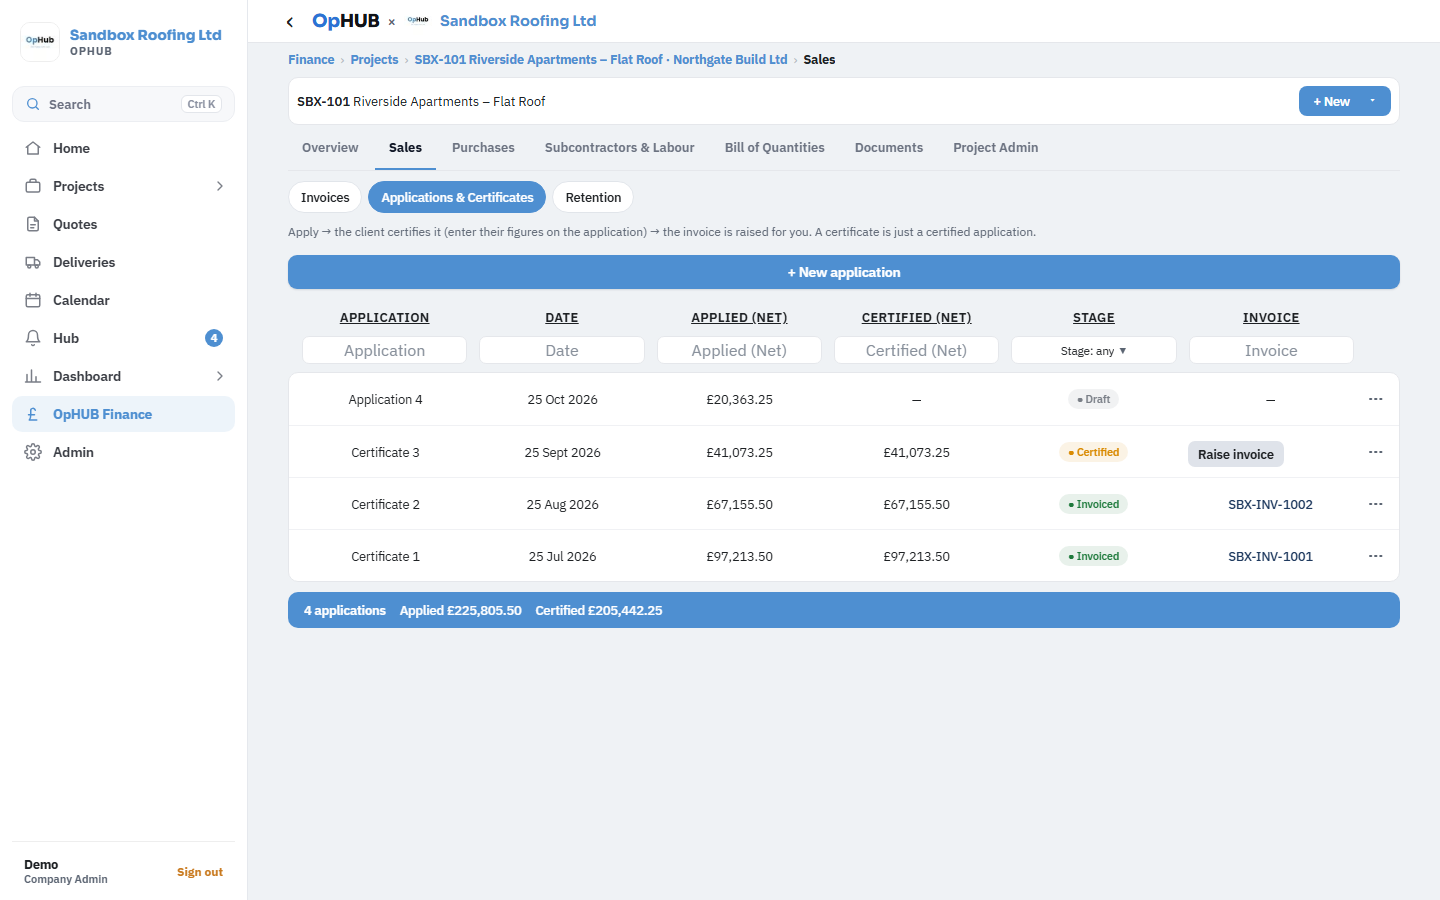
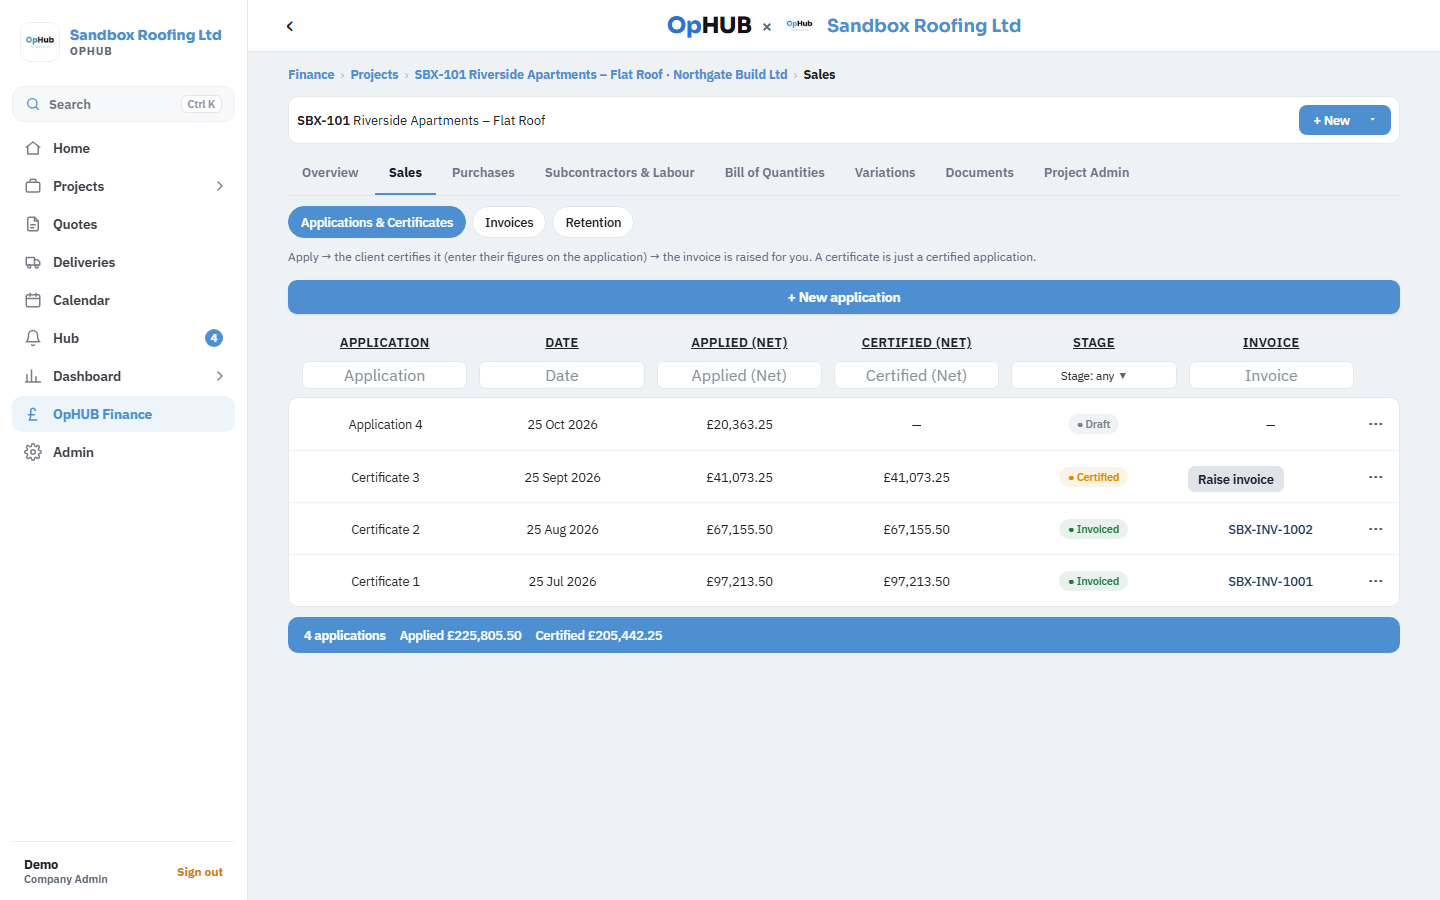
Project pages: Variations tab with Day Works inside it, only Monthly Report on the overview, Project Quotes under Purchases, Sales opens on Applications & Certificates.
Claude-Session: https://claude.ai/code/session_012KhfNvBEbifMJmPdX7yZfp

diff --git a/app-native/src/app/(app)/fin/job/[id]/index.tsx b/app-native/src/app/(app)/fin/job/[id]/index.tsx
@@ -53,7 +53,7 @@ export default function FinJob() {
   const { data: site } = useSite(id);
   const { data, isLoading } = useBook(me?.org_id, id);
   const t = useTheme();
-  const [sub, setSub] = useState<Record<string, string>>({ sales: 'invoices', purchases: 'orders', subs: 'orders' });
+  const [sub0, setSub] = useState<Record<string, string>>({ sales: tab === 'sales' && qSub ? String(qSub) : '', purchases: 'orders', subs: 'orders' });
   useEffect(() => { if (typeof qSub === 'string' && qSub) setSub((cur) => (cur[tab] === qSub ? cur : { ...cur, [tab]: qSub })); }, [qSub, tab]);
   // Variations raised on site come into the register (so the forecast and the Variations tile count them).
   const qcJob = useQueryClient();
@@ -67,14 +67,17 @@ export default function FinJob() {
   const s = site as (typeof site & Row) | undefined;
   const title = s ? `${s.job_number ? `${s.job_number} · ` : ''}${s.name}` : 'Project';
   const fc = data ? forecast(data.book, id, data.settings) : null;
+  // Sales opens on its first tab: an application job's is Applications & Certificates (Andy, 2 Nov 2026).
+  const invoiceOnly = !!fc?.isInvoiceJob && !data?.book.apps.some((a) => a.site_id === id);
+  const sub: Record<string, string> = { ...sub0, sales: sub0.sales || (invoiceOnly ? 'invoices' : 'apps') };
   const subTabs = (k: string, opts: [string, string][]) => (
-    <View style={{ flexDirection: 'row', flexWrap: 'wrap', gap: 6, marginBottom: 10 }}>{opts.map(([v, l]) => <FinChip key={v} on={sub[k] === v} label={l} onPress={() => { setSub({ ...sub, [k]: v }); if (qF) router.setParams({ f: '' }); }} />)}</View>
+    <View style={{ flexDirection: 'row', flexWrap: 'wrap', gap: 6, marginBottom: 10 }}>{opts.map(([v, l]) => <FinChip key={v} on={sub[k] === v} label={l} onPress={() => { setSub({ ...sub0, [k]: v }); if (qF) router.setParams({ f: '' }); }} />)}{k === 'purchases' && <FinChip on={false} label="Project Quotes" onPress={() => router.push(`/fin/job/${id}/quotes` as never)} />}</View>
   );
   return (
     <ScrollView contentContainerStyle={page(1000)} keyboardShouldPersistTaps="handled">
       <Stack.Screen options={{ title }} />
       {isLoading || !fc || !data ? <Muted>Loading…</Muted> : tab === 'overview' ? <Overview askFinancials={qSetup === '1'} id={id} fc={fc} settings={data.settings} invs={data.book.invs.filter((i) => i.site_id === id)} apps={data.book.apps.filter((a) => a.site_id === id)} book={data.book as unknown as Row} />
-        : tab === 'sales' ? <>{subTabs('sales', [['invoices', 'Invoices'], ...(fc.isInvoiceJob && !data.book.apps.some((a) => a.site_id === id) ? [] : [['apps', 'Applications & Certificates'], ['retention', 'Retention']] as [string, string][])])}{sub.sales === 'retention' && !fc.isInvoiceJob && <RetentionPanel id={id} fc={fc} settings={data.settings} invs={data.book.invs.filter((i) => i.site_id === id)} apps={data.book.apps.filter((a) => a.site_id === id)} />}<SalesLists key={`${sub.sales}${qF || ''}`} tab={sub.sales as 'invoices'} siteId={id} f={qF || undefined} /></>
+        : tab === 'sales' ? <>{subTabs('sales', invoiceOnly ? [['invoices', 'Invoices']] : [['apps', 'Applications & Certificates'], ['invoices', 'Invoices'], ['retention', 'Retention']])}{sub.sales === 'retention' && !fc.isInvoiceJob && <RetentionPanel id={id} fc={fc} settings={data.settings} invs={data.book.invs.filter((i) => i.site_id === id)} apps={data.book.apps.filter((a) => a.site_id === id)} />}<SalesLists key={`${sub.sales}${qF || ''}`} tab={sub.sales as 'invoices'} siteId={id} f={qF || undefined} /></>
         : tab === 'purchases' ? <>{subTabs('purchases', [['orders', 'Purchase orders'], ['invoices', 'Purchase invoices'], ['plant', 'Plant hire'], ['quotes', 'Purchase Quotes']])}{sub.purchases === 'quotes' ? <PurchaseQuotes siteId={id} /> : <PurchasesLists key={sub.purchases} tab={sub.purchases as 'orders'} siteId={id} />}</>
         : tab === 'docs' ? <FinDocs site={s as Record<string, unknown> | undefined} />
         : tab === 'subs' ? <>{subTabs('subs', [['orders', 'Subcontractor POs'], ['apps', 'Applications'], ['opinv', 'Operative invoices'], ['wages', 'Wages to book']])}<SubsLists key={sub.subs} tab={sub.subs as 'orders'} siteId={id} /></>
@@ -119,7 +122,7 @@ function Overview({ id, fc, settings, invs, apps, book, askFinancials }: { id: s
   const TINT = { blue: ['#f3f7ff', '#dbe6ff', '#1d4ed8'], green: ['#f1fbf5', '#d3f0de', '#15803d'], red: ['#fff5f4', '#fbdcd9', '#c81e1e'], amber: ['#fffaf0', '#f8e7c2', '#b45309'], grey: ['#fff', '#e5e7eb', '#111827'] } as const;
   const tiles: { t: string; v: string; sub: string; tone: keyof typeof TINT; go: string; slot?: string; cur?: string }[] = [
     (() => { const c = choice('cv', 'contract'); return { slot: 'cv', cur: c, t: c === 'contract' ? 'Contract Value' : c === 'cva' ? 'Contract + Variations' : 'Final Account', v: k(c === 'contract' ? fc.contract : c === 'cva' ? fc.contract + (fc.vAgreed || 0) : fc.ffa), sub: c === 'ffa' ? 'incl. submitted variations' : 'excl. VAT', tone: 'blue' as const, go: `/fin/job/${id}?tab=setup` }; })(),
-    (() => { const c = choice('var', 'va'), r = vd(c); return { slot: 'var', cur: c, t: c === 'va' ? 'Variations' : ({ vu: 'Unapproved', v: 'Variations', da: 'Day Works', d: 'Day Works' } as Record<string, string>)[c], v: k(r.v), sub: `${r.n} ${c[0] === 'v' ? (r.n === 1 ? 'variation' : 'variations') : (r.n === 1 ? 'day work' : 'day works')}${c.length === 1 ? '' : c[1] === 'a' ? ' approved' : ' not approved'}`, tone: (c[1] === 'u' ? 'amber' : 'blue') as 'amber' | 'blue', go: `/fin/job/${id}/variations` }; })(),
+    (() => { const c = choice('var', 'va'), r = vd(c); return { slot: 'var', cur: c, t: c === 'va' ? 'Variations' : ({ vu: 'Unapproved', v: 'Variations', da: 'Day Works', d: 'Day Works' } as Record<string, string>)[c], v: k(r.v), sub: `${r.n} ${c[0] === 'v' ? (r.n === 1 ? 'variation' : 'variations') : (r.n === 1 ? 'day work' : 'day works')}${c.length === 1 ? '' : c[1] === 'a' ? ' approved' : ' not approved'}`, tone: (c[1] === 'u' ? 'amber' : 'blue') as 'amber' | 'blue', go: `/fin/job/${id}/${c[0] === 'd' ? 'dayworks' : 'variations'}` }; })(),
     (() => { const c = choice('cost', 'all'); const v = c === 'all' ? fc.costToDate : c === 'committed' ? fc.committedTotal : fc.actual[c] || 0; const bud = c === 'all' || c === 'committed' ? null : fc.budget[c]; return { slot: 'cost', cur: c, t: c === 'all' ? 'Costs' : c === 'committed' ? 'Ordered' : c === 'overheads' ? 'Prelims' : c === 'other' ? 'Other Costs' : c[0].toUpperCase() + c.slice(1), v: k(v), sub: c === 'all' ? (fc.budgetTotal ? `${pctTxt((fc.costToDate / fc.budgetTotal) * 100)} of budget` : 'No budget yet') : c === 'committed' ? 'on POs, no invoice yet' : bud ? `${pc(v, bud)} of ${k(bud)} budget` : fc.costToDate ? `${pc(v, fc.costToDate)} of all costs` : 'to date', tone: 'grey' as const, go: `/fin/job/${id}/costs` }; })(),
     { slot: 'pr', cur: prK, t: prK === 'td' ? 'Profit' : prK === 'fc' ? 'Forecast Profit' : 'Profit (pre-OHP)', v: prof == null ? '—' : pctTxt(prof), sub: prof == null ? (prK === 'fc' ? 'Needs a budget' : 'Nothing valued yet') : `${money(prM, 0)}${prK === 'td' && fc.ohpPct ? ` after ${fc.ohpPct}% OHP` : prK === 'gross' ? ' before OHP' : prK === 'fc' ? ' forecast' : ' to date'}`, tone: prof == null ? 'grey' : prof < 0 ? 'red' : 'green', go: `/fin/job/${id}/budget` },
     ...(fc.isInvoiceJob ? [] : [(() => { const c = choice('ap', 'applied'); const v = c === 'applied' ? fc.applied : c === 'certified' ? fc.certified : fc.sales; return { slot: 'ap', cur: c, t: c === 'applied' ? 'Applied' : c === 'certified' ? 'Certified' : 'Valued', v: k(v), sub: fc.ffa ? `${pctTxt(((v || 0) / fc.ffa) * 100)} of final account` : '', tone: 'blue' as const, go: `/fin/job/${id}?tab=sales&sub=apps` }; })()]),
@@ -179,7 +182,7 @@ function Overview({ id, fc, settings, invs, apps, book, askFinancials }: { id: s
         {ghost('Full Summary', `/fin/job/${id}/summary`)}
         {!!subKind(site) && ghost(subKind(site) === 'repair' ? 'Costs by repair job' : 'Costs by plot', `/fin/job/${id}/parts`)}
         <View style={{ flex: 1 }} />
-        {ghost('Monthly Report', `/fin/job/${id}/monthly`)}{ghost('Day Works', `/fin/job/${id}/dayworks`)}{ghost('Budgets', `/fin/job/${id}/budget`)}{ghost('Project Quotes', `/fin/job/${id}/quotes`)}
+        {ghost('Monthly Report', `/fin/job/${id}/monthly`)}
       </View>
       {fc.ffaFromInvoiced && <Text style={{ color: '#D98A00', fontWeight: '500', marginBottom: 8 }}>Invoiced to date is more than the contract and variations, so the forecast uses the invoiced total.</Text>}
       {fc.budgetSource === 'schedule' && fc.schedCostedN < fc.schedItemsN && <Text onPress={() => router.push(`/fin/job/${id}/boq` as never)} style={{ color: '#D98A00', fontWeight: '500', marginBottom: 8 }}>{fc.schedItemsN - fc.schedCostedN} Bill of Quantities line{fc.schedItemsN - fc.schedCostedN === 1 ? ' has' : 's have'} no cost price yet, so the budget is low. ›</Text>}

diff --git a/app-native/src/components/FinNav.tsx b/app-native/src/components/FinNav.tsx
@@ -47,13 +47,22 @@ export function FinTabRow({ children, style }: { children: ReactNode; style?: ob
     </View>
   );
 }
+/** Variations and Day Works share the Variations tab. */
+export function VarDayChips({ id, on }: { id: string; on: 'variations' | 'dayworks' }) {
+  return (
+    <View style={{ flexDirection: 'row', gap: 6, marginBottom: 10 }}>
+      <Chip on={on === 'variations'} label="Variations" onPress={() => { if (on !== 'variations') router.replace(`/fin/job/${id}/variations` as never); }} />
+      <Chip on={on === 'dayworks'} label="Day Works" onPress={() => { if (on !== 'dayworks') router.replace(`/fin/job/${id}/dayworks` as never); }} />
+    </View>
+  );
+}
 /** The white row with the job and + New, then a project's tabs: on every page inside a project (Andy, 2 Nov 2026). */
 export function FinJobTabs({ id, active, job, name, onOverview }: { id: string; active: string; job?: string | null; name?: string | null; onOverview: boolean }) {
   const t = useTheme();
   const { data: billing } = useQuery({ queryKey: ['finJobBilling', id], queryFn: async () => ((await fdb.from('job_finance').select('billing_type').eq('site_id', id).maybeSingle()).data as { billing_type: string | null } | null)?.billing_type ?? null });
   const invoiceJob = billing === 'invoice';
-  const tabs: [string, string][] = [['overview', 'Overview'], ['sales', 'Sales'], ['purchases', 'Purchases'], ['subs', 'Subcontractors & Labour'], ...(invoiceJob ? [] : [['boq', 'Bill of Quantities'] as [string, string]]), ['docs', 'Documents'], ['setup', 'Project Admin']];
-  const go = (k: string) => { if (k === 'boq') router.navigate(`/fin/job/${id}/boq` as never); else if (onOverview) router.setParams({ tab: k }); else router.navigate(`/fin/job/${id}?tab=${k}` as never); };
+  const tabs: [string, string][] = [['overview', 'Overview'], ['sales', 'Sales'], ['purchases', 'Purchases'], ['subs', 'Subcontractors & Labour'], ...(invoiceJob ? [] : [['boq', 'Bill of Quantities'] as [string, string]]), ['variations', 'Variations'], ['docs', 'Documents'], ['setup', 'Project Admin']];
+  const go = (k: string) => { if (k === 'boq' || k === 'variations') router.navigate(`/fin/job/${id}/${k}` as never); else if (onOverview) router.setParams({ tab: k }); else router.navigate(`/fin/job/${id}?tab=${k}` as never); };
   return (
     <View>
       <View style={{ flexDirection: 'row', alignItems: 'center', gap: 10, backgroundColor: '#fff', borderWidth: 1, borderColor: '#e5e7eb', borderRadius: 10, padding: 8, marginTop: 6, marginBottom: 2 }}>

diff --git a/tools/test-harness/jobtest-parts/jobvar1.js b/tools/test-harness/jobtest-parts/jobvar1.js
@@ -1,0 +1,25 @@
+// The Variations tab, its Day Works switch, the trimmed overview buttons and the Sales order, on Sandbox's ZZ job. Changes nothing.
+module.exports = async ({as, step}) => {
+  const a = await as('admin');
+  const [J] = await a.get('sites?select=id&name=eq.ZZ%20JOB%20Fin%20A&limit=1');
+  const q = (x) => a.page.getByText(x, {exact: true}).locator('visible=true');
+  await a.page.setViewportSize({width: 1440, height: 900});
+  await step('Overview keeps Monthly Report only', async () => {
+    await a.go('/fin/job/' + J.id, 7000); await a.page.waitForTimeout(3000); await a.shot('overview');
+    const m = await q('Monthly Report').count(), gone = (await q('Day Works').count()) + (await q('Budgets').count()) + (await q('Project Quotes').count());
+    return {ok: m === 1 && gone === 0, note: 'monthly ' + m + ', others ' + gone};
+  });
+  await step('Variations tab, then Day Works', async () => {
+    await q('Variations').first().click({timeout: 5000});
+    await a.page.waitForTimeout(2500); const p1 = new URL(a.page.url()).pathname.split('/').pop(); await a.shot('variations');
+    await q('Day Works').last().click({timeout: 5000}); await a.page.waitForTimeout(2500); const p2 = new URL(a.page.url()).pathname.split('/').pop(); await a.shot('dayworks');
+    return {ok: p1 === 'variations' && p2 === 'dayworks', note: p1 + ' then ' + p2};
+  });
+  await step('Sales opens on Applications, in the right order', async () => {
+    await a.go('/fin/job/' + J.id + '?tab=sales', 7000); await a.page.waitForTimeout(3000); await a.shot('sales');
+    const box = async (x) => (await q(x).first().boundingBox()).x;
+    const [ap, inv, ret] = [await box('Applications & Certificates'), await box('Invoices'), await box('Retention')];
+    const net = await q('APPLIED (NET)').count() + await a.page.getByText('Applied (Net)', {exact: true}).locator('visible=true').count();
+    return {ok: ap < inv && inv < ret && net > 0, note: [ap, inv, ret].map(Math.round).join(' < ') + ', applications list ' + net};
+  });
+};

diff --git a/app-native/src/app/(app)/fin/job/[id]/dayworks.tsx b/app-native/src/app/(app)/fin/job/[id]/dayworks.tsx
@@ -7,7 +7,7 @@ import { useState } from 'react';
 import { ScrollView, View } from 'react-native';
 
 import { FinForm } from '@/components/FinForm';
-import { FinChip, FinRow, FinStat } from '@/components/FinNav';
+import { FinChip, FinRow, FinStat, VarDayChips } from '@/components/FinNav';
 import { viewDoc } from '@/components/DocViewer';
 import { promptText, useToast } from '@/components/toast';
 import { Button, Empty, Muted } from '@/components/ui';
@@ -36,6 +36,7 @@ export default function FinDayworks() {
   return (
     <ScrollView contentContainerStyle={page(900)}>
       <Stack.Screen options={{ title: 'Day works' }} />
+      <VarDayChips id={id} on="dayworks" />
       <View style={{ flexDirection: 'row', flexWrap: 'wrap', gap: 8, marginBottom: 10 }}><FinStat v={money(sum('approved'), 0)} label="Approved" /><FinStat v={money(sum('issued'), 0)} label="Issued, waiting" /><FinStat v={money(sum('rejected'), 0)} label="Rejected" /></View>
       <View style={{ flexDirection: 'row', flexWrap: 'wrap', gap: 6, marginBottom: 10 }}>
         {[['all', 'All'], ['issued', 'Issued'], ['approved', 'Approved'], ['rejected', 'Rejected']].map(([k, l]) => <FinChip key={k} on={f === k} label={l} n={data.filter((d) => k === 'all' || d.status === k).length} onPress={() => setF(k)} />)}

diff --git a/app-native/src/components/AppBar.tsx b/app-native/src/components/AppBar.tsx
@@ -147,7 +147,7 @@ export function AppBar({ title, onBack, home, right, noHistory }: { title?: stri
           ))}
         </View>
       )}
-      {!!finJob && <View style={{ backgroundColor: base.paper, paddingHorizontal: desk ? 40 : 16 }}><FinJobTabs id={finJob} job={fJob?.job_number} name={fJob?.name} onOverview={!finRest.length} active={!finRest.length ? (typeof qTab === 'string' && qTab ? qTab : 'overview') : finRest[0] === 'boq' ? 'boq' : ['invoice', 'application'].includes(finRest[0]) ? 'sales' : finRest[0] === 'quotes' ? 'purchases' : 'overview'} /></View>}
+      {!!finJob && <View style={{ backgroundColor: base.paper, paddingHorizontal: desk ? 40 : 16 }}><FinJobTabs id={finJob} job={fJob?.job_number} name={fJob?.name} onOverview={!finRest.length} active={!finRest.length ? (typeof qTab === 'string' && qTab ? qTab : 'overview') : finRest[0] === 'boq' ? 'boq' : ['variations', 'dayworks'].includes(finRest[0]) ? 'variations' : ['invoice', 'application'].includes(finRest[0]) ? 'sales' : finRest[0] === 'quotes' ? 'purchases' : 'overview'} /></View>}
     </View>
   );
   return (

diff --git a/app-native/src/app/(app)/fin/job/[id]/variations.tsx b/app-native/src/app/(app)/fin/job/[id]/variations.tsx
@@ -7,7 +7,7 @@ import { useEffect, useState } from 'react';
 import { Pressable, ScrollView, Text, View } from 'react-native';
 
 import { FinForm } from '@/components/FinForm';
-import { FinChip, FinRow, FinStat } from '@/components/FinNav';
+import { FinChip, FinRow, FinStat, VarDayChips } from '@/components/FinNav';
 import { promptText, useToast } from '@/components/toast';
 import { Button, Empty, Muted } from '@/components/ui';
 import { viewDoc } from '@/components/DocViewer';
@@ -86,6 +86,7 @@ export default function FinVariations() {
   return (
     <ScrollView contentContainerStyle={page(900)}>
       <Stack.Screen options={{ title: 'Variations' }} />
+      <VarDayChips id={id} on="variations" />
       <View style={{ flexDirection: 'row', flexWrap: 'wrap', gap: 8, marginBottom: 10 }}>
         <FinStat v={money(sum('agreed_value', (v) => v.status === 'agreed'), 0)} label="Approved" />
         <FinStat v={money(sum('quoted', (v) => ['priced', 'submitted'].includes(v.status)), 0)} label="Issued, waiting for approval" />
